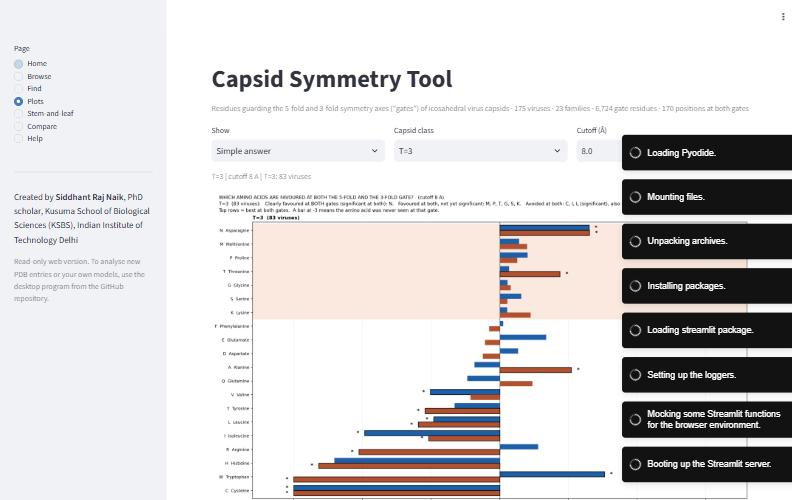
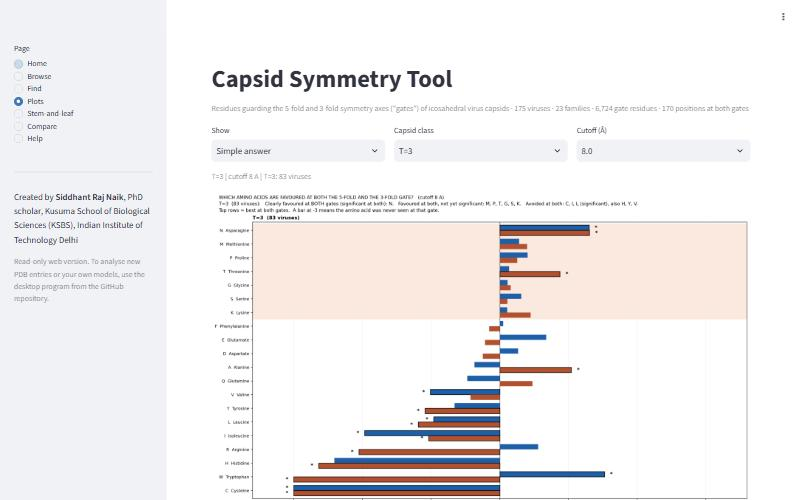
README: web screenshot and badge

Changed region(s): [[0.75, 0.27, 1.0, 0.99]]

diff --git a/README.md b/README.md
@@ -15,8 +15,7 @@ which residue positions sit at <b>both</b> gates, and which amino acids are <b>f
 </p>
 
 <p align="center">
-<a href="https://github.com/siddhantrajnaik/capsid-symmetry-tool/actions/workflows/test.yml"><img src="https://github.com/siddhantrajnaik/capsid-symmetry-tool/actions/workflows/test.yml/badge.svg" alt="analysis test"></a>
-<a href="https://github.com/siddhantrajnaik/capsid-symmetry-tool/actions/workflows/pages.yml"><img src="https://github.com/siddhantrajnaik/capsid-symmetry-tool/actions/workflows/pages.yml/badge.svg" alt="web version"></a>
+<a href="https://siddhantrajnaik.github.io/capsid-symmetry-tool/"><img src="https://img.shields.io/badge/web%20version-online-1d5fa8.svg" alt="web version online"></a>
 <a href="LICENSE"><img src="https://img.shields.io/badge/licence-MIT-blue.svg" alt="MIT licence"></a>
 </p>
 
